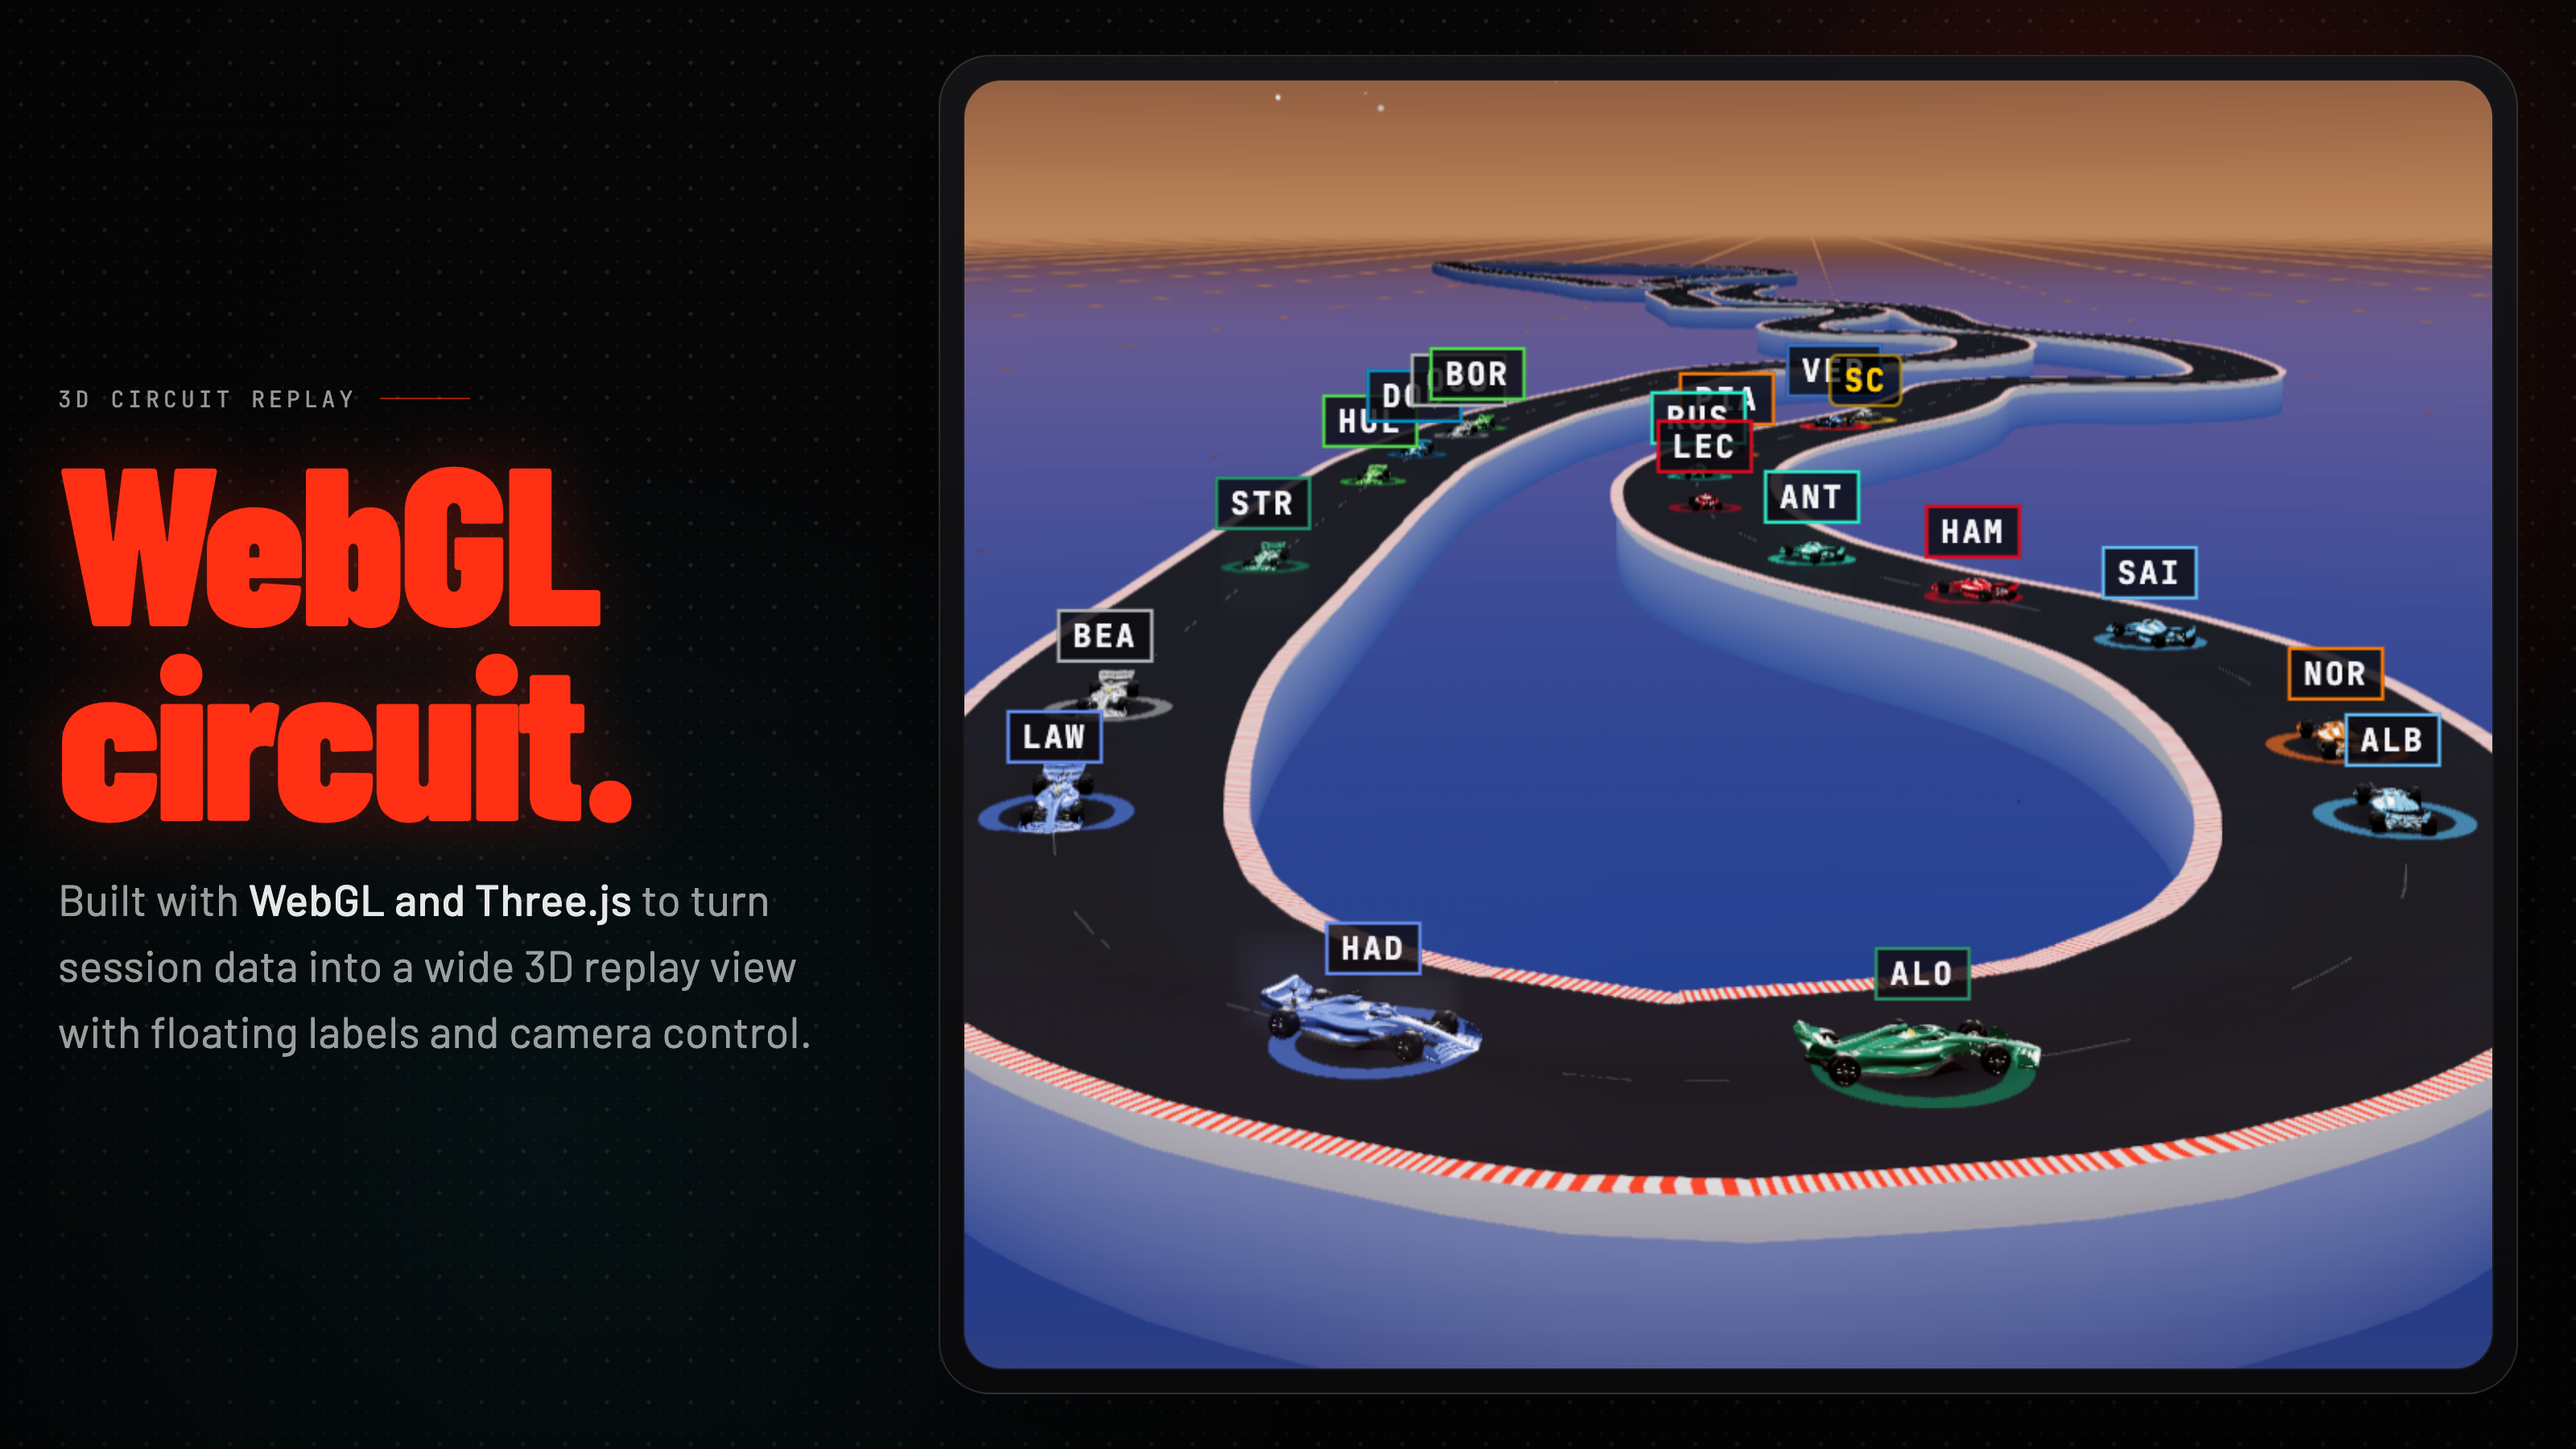
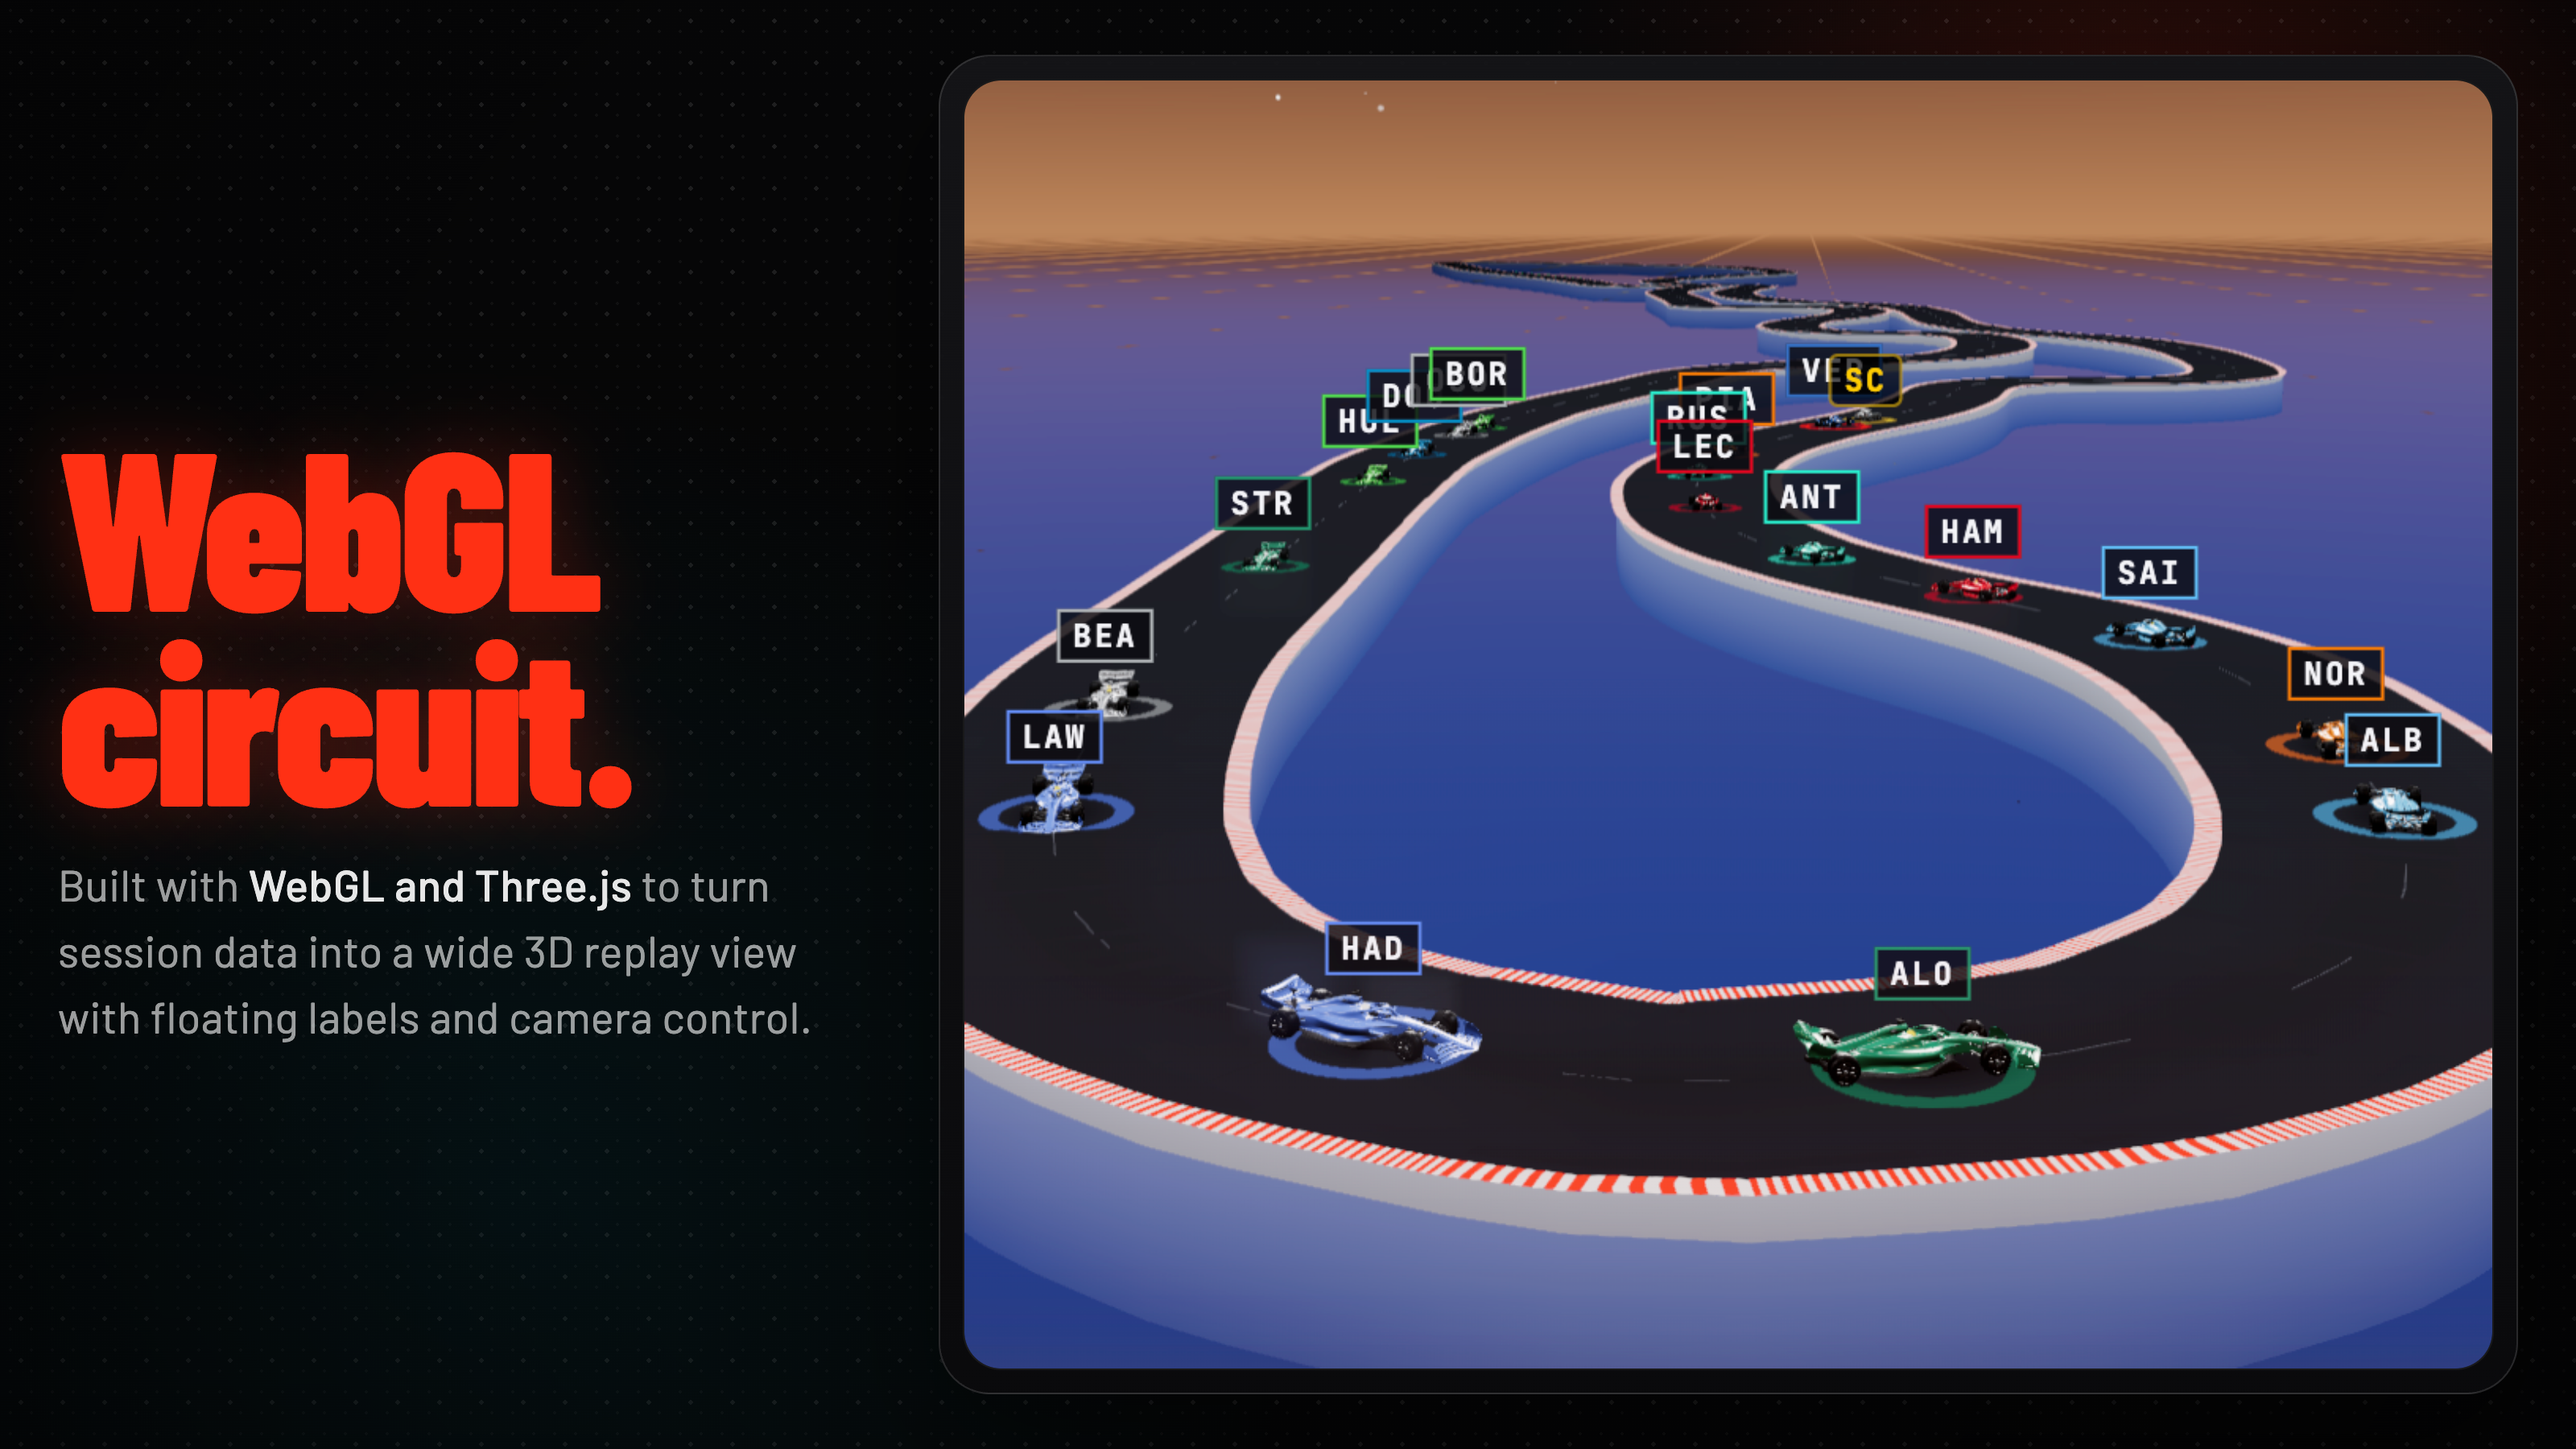
docs: update telemetry compare and RacePicker placeholder images, add new WebGL screenshot

Changed region(s): [[0.0, 0.3111, 0.3125, 0.7467]]

diff --git a/README.md b/README.md
@@ -60,9 +60,7 @@ This repository is focused on the web stack:
 - sector times panel for quick split comparison
 - useful for showing where one driver gains, brakes later, or gets traction down earlier
 
-> Screenshot slot: `docs/screenshots/05-telemetry-compare.png`  
-> Suggested capture: compare traces with a visible playhead and sector-times panel beside it.
-![Telemetry compare placeholder](docs/screenshots/05-telemetry-compare.svg)
+![Telemetry compare placeholder](docs/screenshots/traceslide-readme.png)
 
 ### Strategy, Gaps, and the Spaghetti View
 
@@ -93,9 +91,7 @@ This repository is focused on the web stack:
 - warm cache loads skip a full FastF1 rebuild and jump straight into replay hydration
 - loading states make the data pipeline visible instead of feeling like a blank wait screen
 
-> Screenshot slot: `docs/screenshots/08-race-picker.png`  
-> Suggested capture: the RacePicker grid or loading flow with cache-aware session selection.
-![RacePicker placeholder](docs/screenshots/08-race-picker.svg)
+![RacePicker placeholder](docs/screenshots/racepickerslide-readme.png)
 
 ## Panel Map
 
